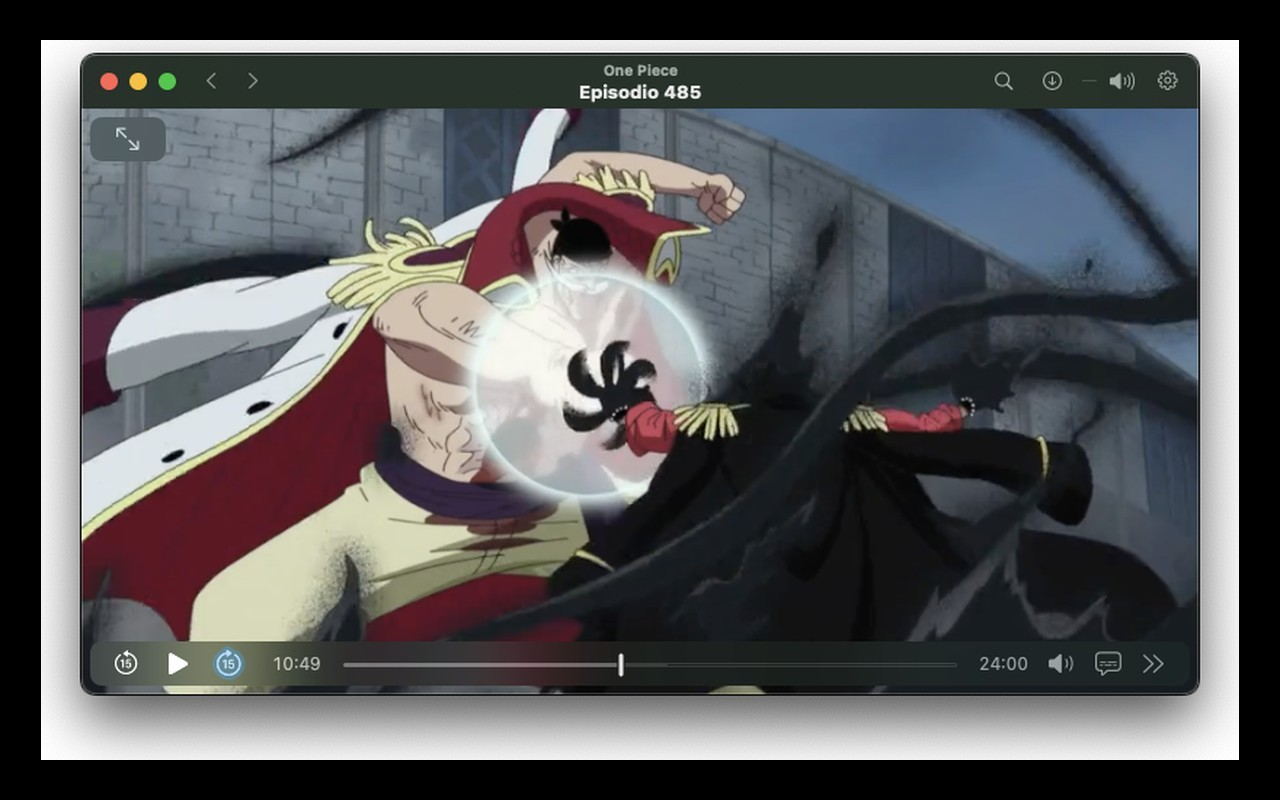
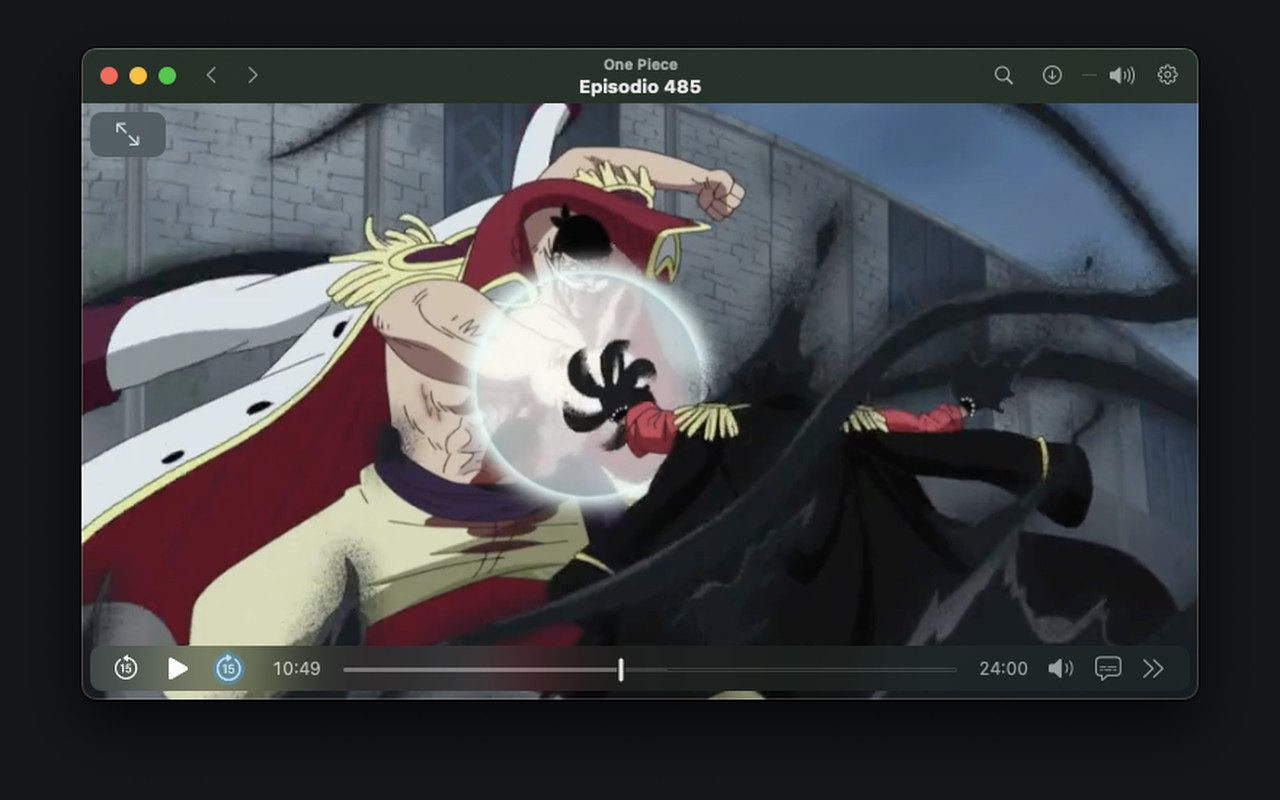
Rifinisci tema dark e screenshot One Piece e SunSeeker
- palette dark del sito spostata da nero puro a #14161a con testo #f2f3f5
- One Piece Watcher ricomposto dallo screen originale di Developer/opwatcher su fondo scuro, senza inversione
- SunSeeker ricatturato in dark con posizione finta iniettata prima del load
- miniature dei due screenshot rigenerate e README aggiornato

diff --git a/404.html b/404.html
@@ -6,7 +6,7 @@
 <title>Pagina non trovata | Michele Lana</title>
 <meta name="robots" content="noindex">
 <meta name="theme-color" content="#ffffff" media="(prefers-color-scheme: light)">
-<meta name="theme-color" content="#0b0b0c" media="(prefers-color-scheme: dark)">
+<meta name="theme-color" content="#14161a" media="(prefers-color-scheme: dark)">
 <link rel="icon" href="/favicon.svg" type="image/svg+xml">
 <style>
   @font-face{font-family:'Geist';font-style:normal;font-weight:100 900;font-display:swap;src:url(/assets/fonts/geist-normal.woff2) format('woff2')}
@@ -21,10 +21,10 @@
   .error a{display:inline-block;margin-top:40px;padding-bottom:2px;font-size:20px;border-bottom:1px solid rgba(0,0,0,.4)}
   .error a:hover{color:#000;border-color:#000}
   @media (prefers-color-scheme:dark){
-    html,body{background:#0b0b0c;color:#f2f2f3}
-    :focus-visible{outline-color:#f2f2f3}
-    .error p{color:rgba(255,255,255,.45)}
-    .error a{border-bottom-color:rgba(255,255,255,.35)}
+    html,body{background:#14161a;color:#f2f3f5}
+    :focus-visible{outline-color:#f2f3f5}
+    .error p{color:rgba(242,243,245,.55)}
+    .error a{border-bottom-color:rgba(242,243,245,.38)}
     .error a:hover{color:#fff;border-color:#fff}
   }
   @media(max-width:600px){.error{width:calc(100% - 40px)}.error h1{font-size:32px}}

diff --git a/index.html b/index.html
@@ -7,7 +7,7 @@
 <title>Michele Lana</title>
 <meta name="description" content="Michele Lana. Sviluppo siti, piattaforme gestionali e app per macOS e Android, consulenza sulla privacy digitale. Torino, solo da remoto.">
 <meta name="theme-color" content="#ffffff" media="(prefers-color-scheme: light)">
-<meta name="theme-color" content="#0b0b0c" media="(prefers-color-scheme: dark)">
+<meta name="theme-color" content="#14161a" media="(prefers-color-scheme: dark)">
 
 <meta property="og:type" content="website">
 <meta property="og:title" content="Michele Lana">

diff --git a/assets/css/style.css b/assets/css/style.css
@@ -29,13 +29,13 @@
 }
 @media (prefers-color-scheme:dark){
   :root{
-    --ink:#f2f2f3;
-    --mut:rgba(255,255,255,.45);
-    --line:rgba(255,255,255,.16);
-    --panel:rgba(12,12,14,.90);
-    --bg:#0b0b0c;
-    --ring:rgba(255,255,255,.22);
-    --shadow:rgba(0,0,0,.55);
+    --ink:#f2f3f5;
+    --mut:rgba(242,243,245,.55);
+    --line:rgba(242,243,245,.18);
+    --panel:rgba(20,22,26,.92);
+    --bg:#14161a;
+    --ring:rgba(242,243,245,.22);
+    --shadow:rgba(0,0,0,.5);
     color-scheme:dark;
   }
 }

diff --git a/README.md b/README.md
@@ -30,7 +30,7 @@ Il cursore compare solo con mouse preciso (`hover:hover` e `pointer:fine`); con
 si accorciano.
 
 Il tema segue `prefers-color-scheme`: su sistema chiaro sfondo `#ffffff` e testo
-nero, su sistema scuro sfondo `#0b0b0c` e testo `#f2f2f3`. Non c'è un interruttore:
+nero, su sistema scuro sfondo `#14161a` e testo `#f2f3f5`. Non c'è un interruttore:
 basta il tema del sistema. Anche `404.html` e il colore della barra del browser
 seguono la stessa preferenza.
 
@@ -141,17 +141,19 @@ Dentro gli schermi ci sono **screenshot reali**, in `assets/img/screens/`:
 - siti live catturati con Firefox headless via WebDriver BiDi a 1280×800,
   con **5 secondi di attesa reale** dopo `load` e scroll per le immagini lazy:
   `torinosulfilo.jpg`, `sunseeker.jpg` (da
-  `skippydream.github.io/SunSeeker`, con geolocalizzazione concessa per far
-  caricare le previsioni) e `frushio-app.jpg` (da `localhost:8788`, con la
-  scrollbar nascosta per eliminare la barra nera di 15 px a destra);
+  `skippydream.github.io/SunSeeker`, con una posizione finta iniettata prima del
+  caricamento per far apparire le previsioni; il sito è dark di default) e
+  `frushio-app.jpg` (da `localhost:8788`, con la scrollbar nascosta per eliminare
+  la barra nera di 15 px a destra);
 - `pachamar.jpg` e `appunti.jpg`: altri siti live, entrambi ricatturati con la
   scrollbar nascosta prima dello scatto (su Appunti la barra scura di 15 px a
   destra era la scrollbar del browser, non parte del sito); Appunti è stato
   ricatturato con il tema scuro, coerente con il tema dark del sito;
 - `pachamar-mobile.jpg`: versione mobile, 390×844;
 - `strati-app.jpg`: screenshot dal README di `skippydream/Strati`, nel Pixel;
-- `one-piece-watcher.jpg`: immagine in testa al README di
-  `skippydream/opwatcher`, composta su nero.
+- `one-piece-watcher.jpg`: screenshot originale
+  `Developer/opwatcher/Images/5.png` composto su `#14161a`, senza inversione dei
+  colori, così lo sfondo non è più bianco e la scena resta leggibile.
 
 Le immagini sono salvate come JPEG baseline, non progressivi, così non compaiono
 a strisce durante il caricamento. Le miniature in basso sono ritagli 128×80 degli
